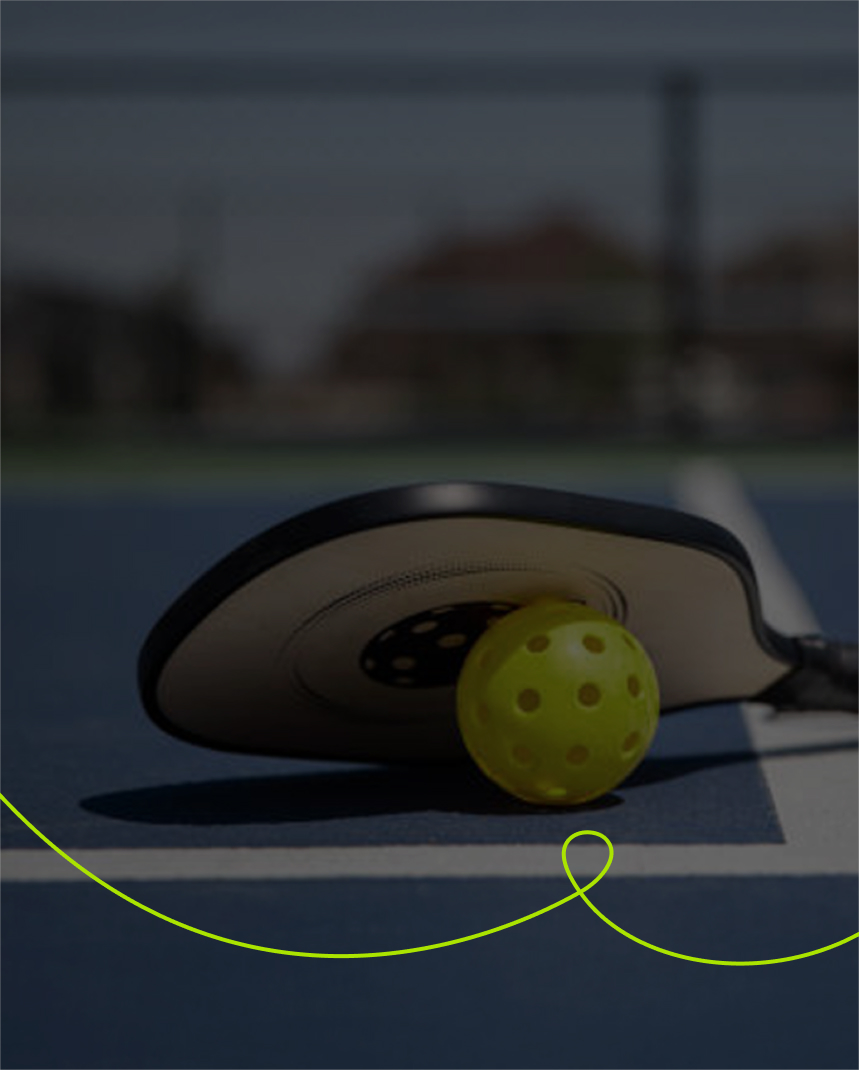
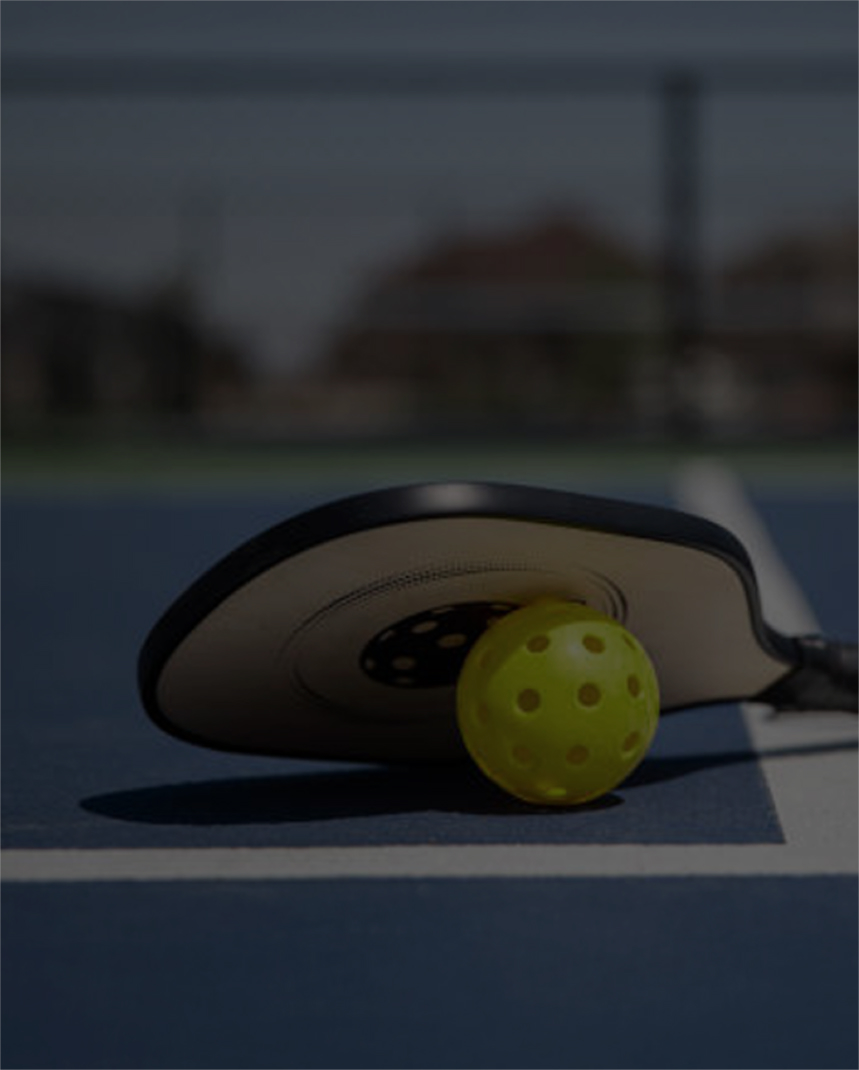
login image

diff --git a/src/Page/Login.jsx b/src/Page/Login.jsx
@@ -198,7 +198,7 @@ const Login = () => {
         onSubmit={(e) => handleSubmit(e)}
         className="relative z-10 flex items-center justify-center h-full"
       >
-        <div className="flex h-screen w-full flex-col md:flex-row justify-center items-center h-full">
+        <div className="flex w-full flex-col md:flex-row justify-center items-center h-full">
           <div className="flex justify-center items-center w-[60%] md:w-[45%] lg:w-[40%] p-4 md:p-8 bg-white rounded-lg md:rounded-none">
             <ErrorModal />
             <SuccessModal />
@@ -209,7 +209,7 @@ const Login = () => {
             <img
               src={desktoploginIcon}
               alt="picklebay logo"
-              className="h-full w-full"
+              className="h-full w-full object-cover"
             />
           </div>
         </div>
